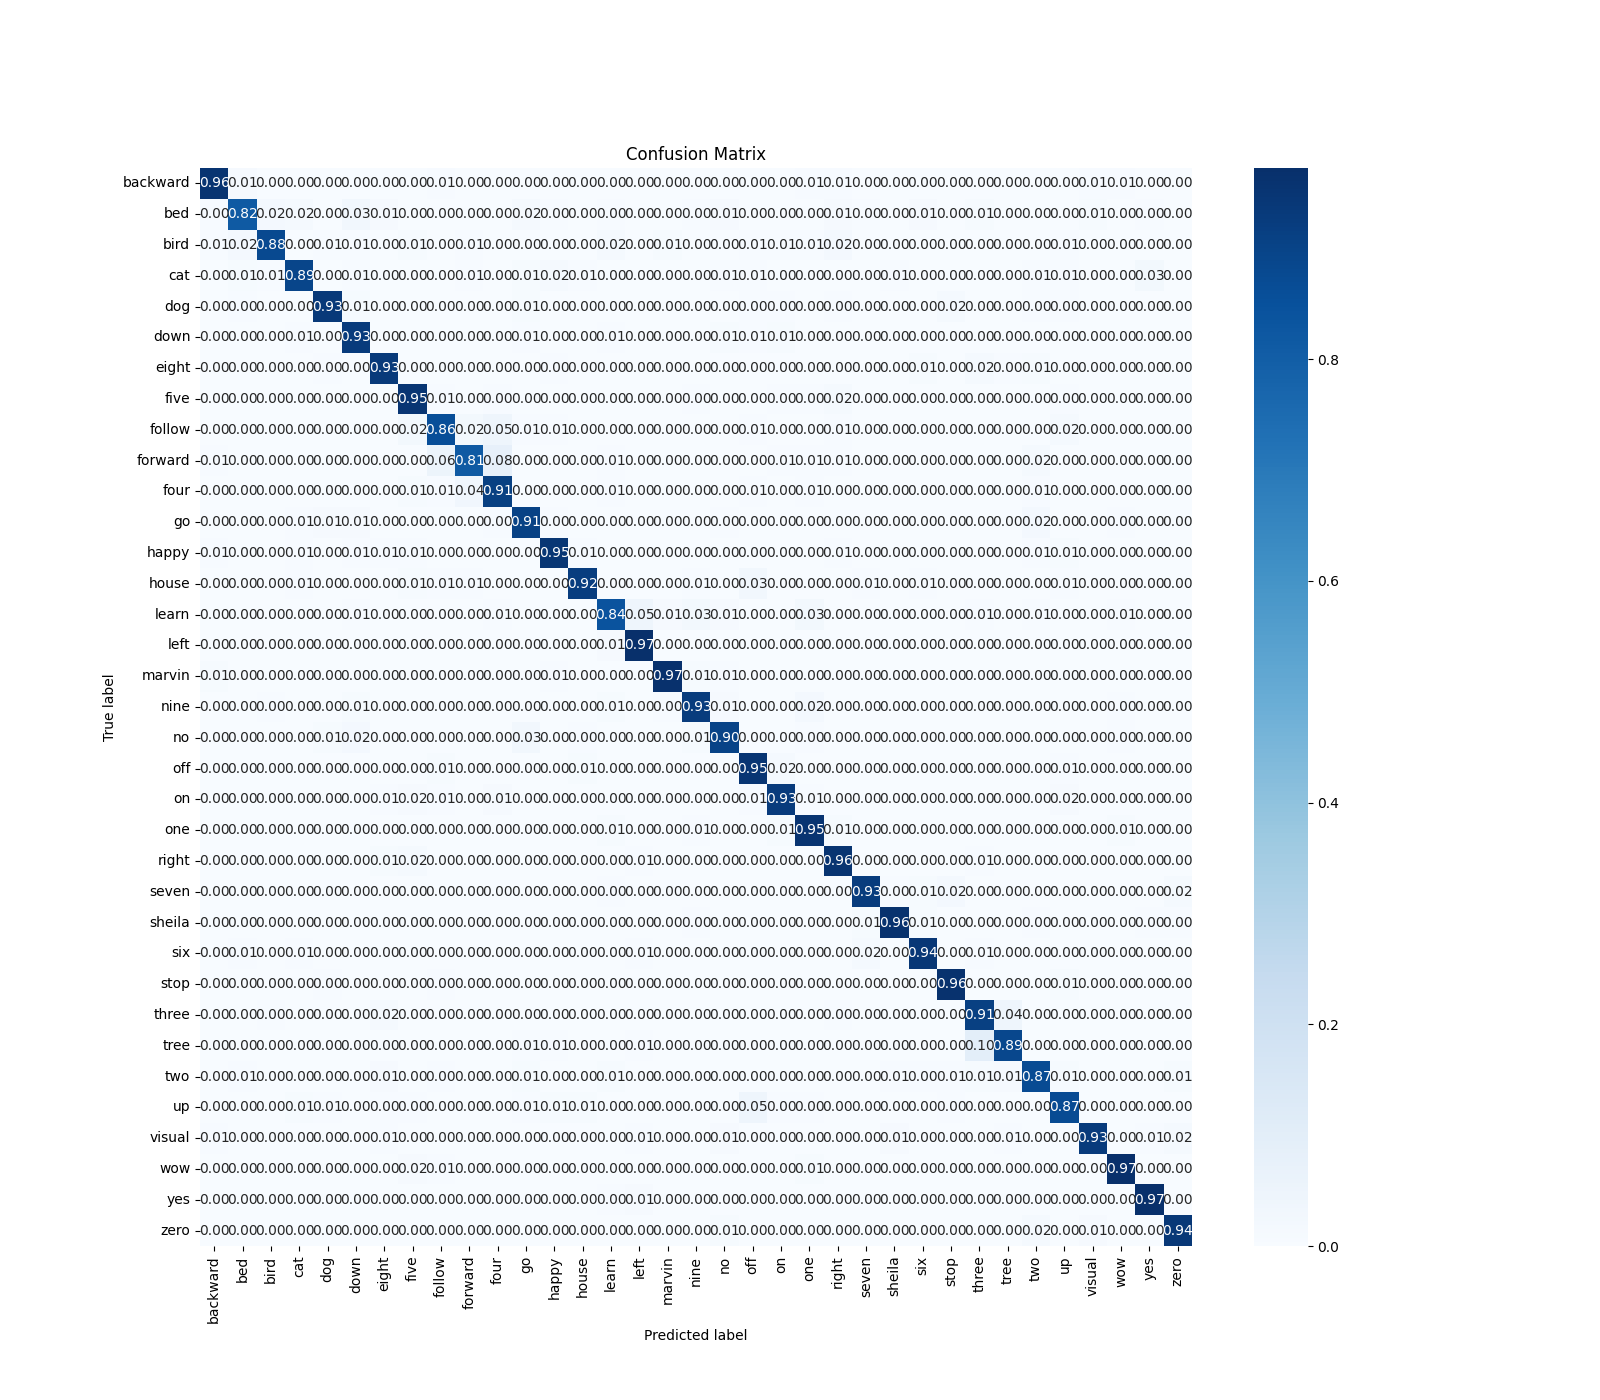
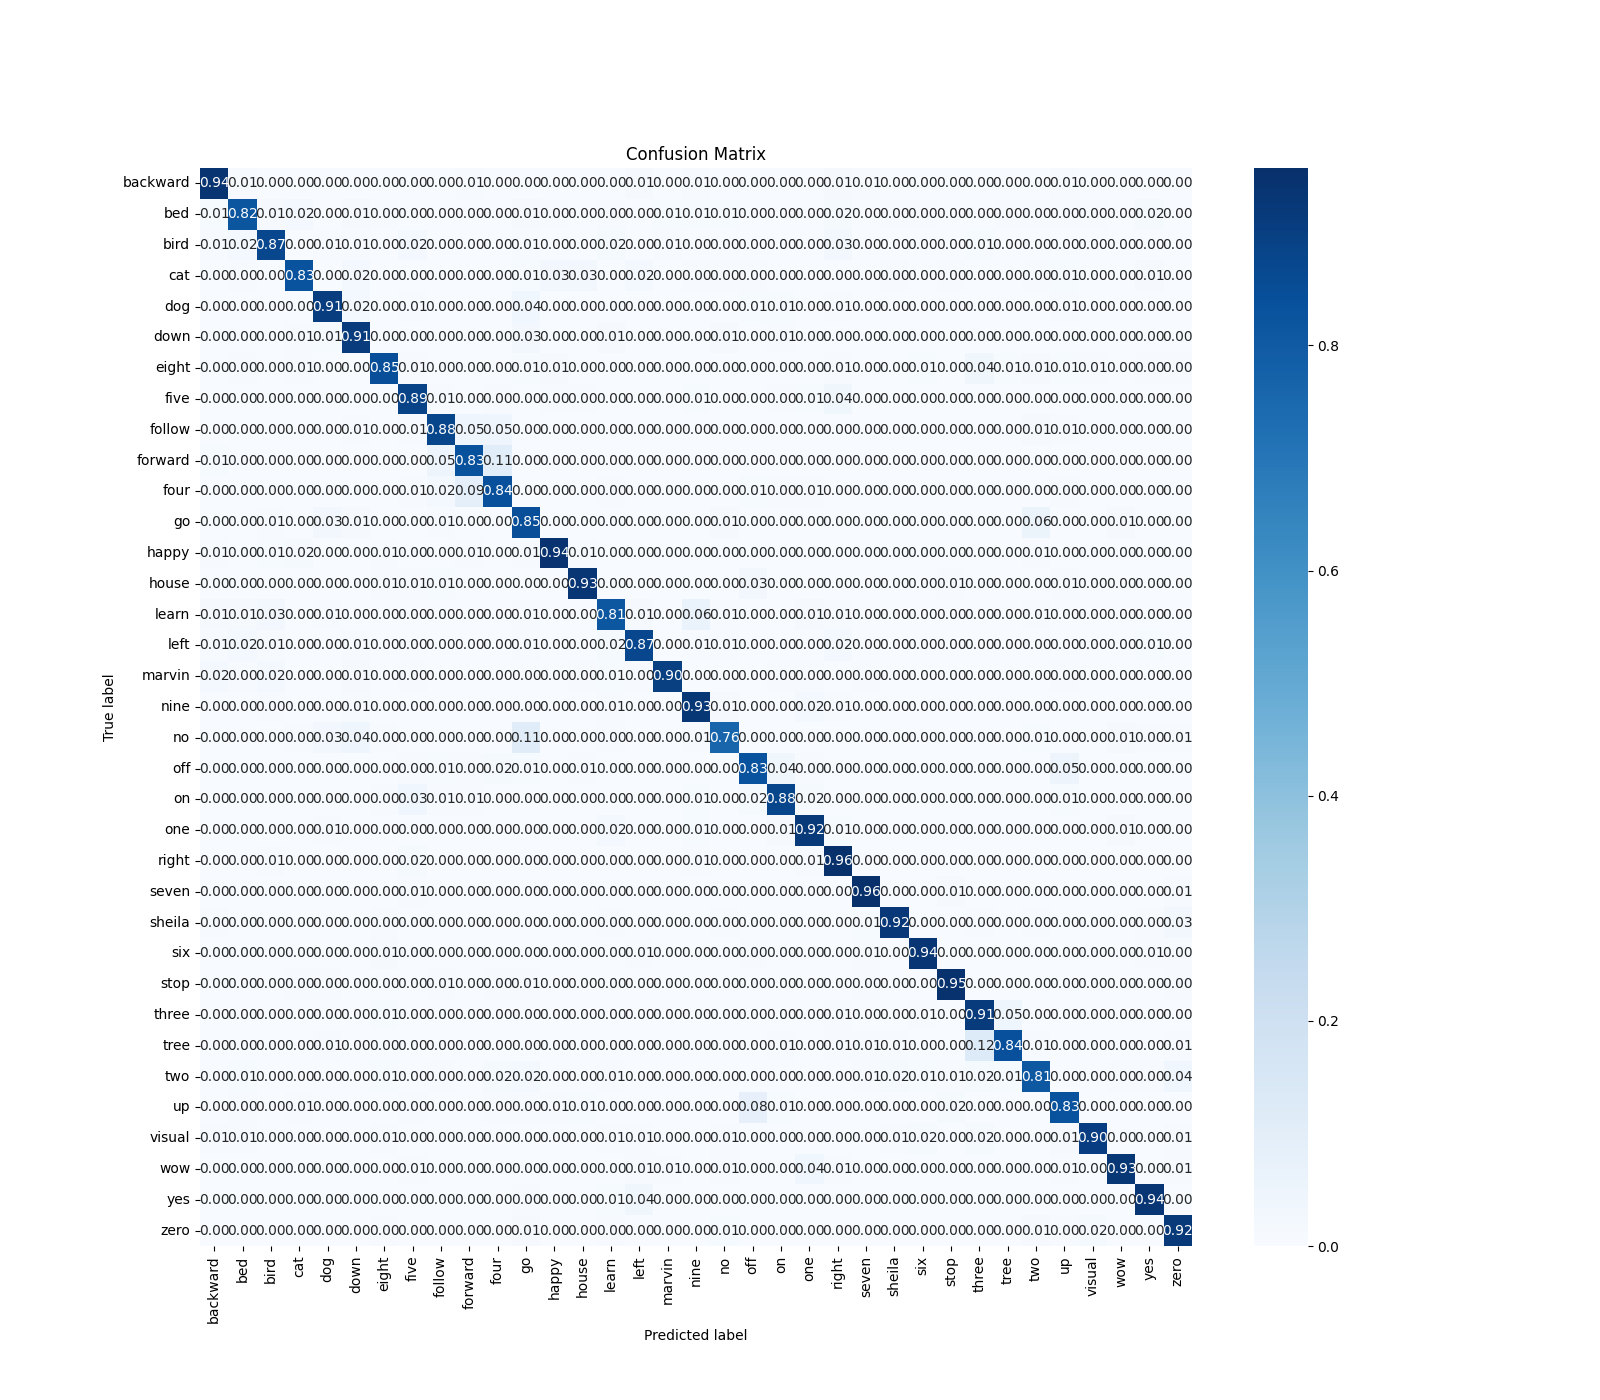
updated some models with context nodes

diff --git a/main.py b/main.py
@@ -57,14 +57,14 @@ def main():
     #      Accuracy  Precision  Recall  F1-score
 #Model 24    0.9194   0.919809  0.9194  0.919147
 
-    # TODO : remove 
+
     data_dir = utils_data.download_and_prepare_dataset()
 
-    for i in range(28,29):
+    for i in range(1):
         # For reproducibility & testing across different models
         tf.random.set_seed(32)
 
-        MODE_MODEL = 'CNN'
+        MODE_MODEL = 'GNN'
 
 
 
@@ -73,10 +73,10 @@ def main():
         FRAME_LENGTH = int(SAMPLE_RATE * 0.025)  # 25 ms 
         FRAME_STEP = int(SAMPLE_RATE * 0.010)  # 10 ms 
 
-        N_DILATION_LAYERS = 0
+        N_DILATION_LAYERS = 5
 
-        REDUCED_NODE_REP_BOOL = True
-        REDUCED_NODE_REP_K = 4
+        REDUCED_NODE_REP_BOOL = False
+        REDUCED_NODE_REP_K = 0
 
         # TODO : replace with old (look at github)
         # Load data
@@ -121,7 +121,7 @@ def main():
         
 
         if MODE_MODEL == 'CNN':
-            model, history = base_cnn.train_model(train_ds_og, val_ds_og, test_ds_og, input_shape=(98, 39, 1), num_classes=35, epochs=1, model_type='res8_narrow')
+            model, history = base_cnn.train_model(train_ds_og, val_ds_og, test_ds_og, input_shape=(98, 39, 1), num_classes=35, epochs=30, model_type='res8_narrow')
 
            # utils_metrics.plot_history(history, columns=['loss', 'sparse_categorical_accuracy'], idx = i)
 
@@ -168,7 +168,7 @@ def main():
 
 
 
-            _, adjacency_matrix, _ = utils_graph.create_adjacency_matrix(mfcc = example_mfcc, num_frames=N_FRAMES, label = example_label, mode='similarity', threshold= 0, cosine_window_thresh = 0.3,window_size_cosine= 3, window_size=5)
+       #     _, adjacency_matrix, _ = utils_graph.create_adjacency_matrix(mfcc = example_mfcc, num_frames=N_FRAMES, label = example_label, mode='similarity', threshold= 0, cosine_window_thresh = 0.3,window_size_cosine= 3, window_size=5)
 
 
         # utils_data.listen_audio(example_wav, sample_rate=SAMPLE_RATE)
@@ -190,26 +190,26 @@ def main():
 
             
 
-            train_ds = train_ds_og.map(lambda mfcc, wav, label: utils_graph.create_adjacency_matrix(mfcc, N_FRAMES, label, mode='cosine window',window_size_cosine = 25, n_dilation_layers= N_DILATION_LAYERS, window_size=5, threshold = 0.3))
-            val_ds = val_ds_og.map(lambda mfcc, wav, label: utils_graph.create_adjacency_matrix(mfcc, N_FRAMES, label, mode='cosine window',window_size_cosine = 25, n_dilation_layers= N_DILATION_LAYERS, window_size=5, threshold = 0.3))
-            test_ds = test_ds_og.map(lambda mfcc, wav, label: utils_graph.create_adjacency_matrix(mfcc, N_FRAMES, label,mode='cosine window',window_size_cosine = 25, n_dilation_layers= N_DILATION_LAYERS, window_size=5, threshold = 0.3))
+            train_ds = train_ds_og.map(lambda mfcc, wav, label: utils_graph.create_adjacency_matrix(mfcc, N_FRAMES, label, mode='cosine window',window_size_cosine = 10, n_dilation_layers= N_DILATION_LAYERS, window_size=5, threshold = 0.3))
+            val_ds = val_ds_og.map(lambda mfcc, wav, label: utils_graph.create_adjacency_matrix(mfcc, N_FRAMES, label, mode='cosine window',window_size_cosine = 10, n_dilation_layers= N_DILATION_LAYERS, window_size=5, threshold = 0.3))
+            test_ds = test_ds_og.map(lambda mfcc, wav, label: utils_graph.create_adjacency_matrix(mfcc, N_FRAMES, label,mode='cosine window',window_size_cosine = 10, n_dilation_layers= N_DILATION_LAYERS, window_size=5, threshold = 0.3))
             # Check the shape of the dataset
-            for mfcc, adjacency_matrices, label in train_ds.take(1):
-                print(f"MFCC shape: {mfcc.shape}")
+         #   for mfcc, adjacency_matrices, label in train_ds.take(1):
+         #       print(f"MFCC shape: {mfcc.shape}")
 
 
-                print(f"Label shape: {label.shape}")
-                example_mfcc = mfcc
-                example_adjacency_matrix = adjacency_matrices[0]
+          #      print(f"Label shape: {label.shape}")
+          #      example_mfcc = mfcc
+          #      example_adjacency_matrix = adjacency_matrices[0]
 
             
             # Adjacency test
             # utils_graph.visualize_adjacency_matrix(example_adjacency_matrix, title="Adjacency Matrix")
 
-            spectrogram, _ = utils_data.get_spectrogram(wav, sample_rate = 16000) 
-            gam_filters = utils_data.create_gammatone_filterbank(fft_size=FRAME_LENGTH)
+       #     spectrogram, _ = utils_data.get_spectrogram(wav, sample_rate = 16000) 
+       #     gam_filters = utils_data.create_gammatone_filterbank(fft_size=FRAME_LENGTH)
         #  utils_data.visualize_filterbank(gam_filters, spectrogram = spectrogram, gammatone = True)
-            _ , mel_filters = utils_data.apply_mel_filterbanks(spectrogram)
+      #      _ , mel_filters = utils_data.apply_mel_filterbanks(spectrogram)
         #  utils_data.visualize_filterbank(mel_filters, spectrogram = spectrogram)
 
         #  utils_data.visualize_mfccs(example_mfcc, gammatone = True, label = 1)
@@ -220,12 +220,12 @@ def main():
 
 
             # Graph test
-            graph_example = base_gnn.mfccs_to_graph_tensors(example_mfcc, example_adjacency_matrix)
+         #   graph_example = base_gnn.mfccs_to_graph_tensors(example_mfcc, example_adjacency_matrix)
             # print(f"Graph example shape: {graph_example.shape}")
-            print(f"Graph example: {graph_example}")
-            print("Edges:", graph_example.edge_sets["connections"].adjacency)
-            networkx_graph = utils_graph.convert_tensor_to_networkx(graph_example)
-            pos = utils_graph.node_layout(networkx_graph)
+         #   print(f"Graph example: {graph_example}")
+         #   print("Edges:", graph_example.edge_sets["connections"].adjacency)
+         #   networkx_graph = utils_graph.convert_tensor_to_networkx(graph_example)
+         #   pos = utils_graph.node_layout(networkx_graph)
             # utils_graph.visualize_graph_with_heatmap(networkx_graph, pos = pos, title="Graph Example")
 
 
@@ -283,13 +283,15 @@ def main():
             
 
 
-            if i == 28:        
+            if i == 0:        
                 # Note that we actually have 35 classes !!! not like written in project B1
-                base_model = base_gnn.base_gnn_model_using_gcn(graph_tensor_specification = graphs_spec,
-                                                            n_message_passing_layers = 6,
-                                                            use_residual_next_state = False,
-                                                            initial_nodes_mfccs_layer_dims= 64,
-                                                            dilation = False,
+                base_model = base_gnn.base_gnn_model_using_gcn_and_context_node(graph_tensor_specification = graphs_spec,
+                                                            n_message_passing_layers = 5,
+                                                            use_residual_next_state = True,
+                                                            initial_nodes_mfccs_layer_dims= 32,
+                                                            message_dim= 32,
+                                                            next_state_dim= 32,
+                                                            dilation = True,
                                                             n_dilation_layers= N_DILATION_LAYERS,
                                                             l2_reg_factor= 1e-4,
                                                             )

diff --git a/models/base_gnn.py b/models/base_gnn.py
@@ -1444,6 +1444,7 @@ def base_gnn_model_using_gcn(
         use_residual_next_state = False
 
 
+
         ):
     
     """
@@ -1595,6 +1596,203 @@ def base_gnn_model_using_gcn(
 
 
     return model 
+
+
+
+
+
+def base_gnn_model_using_gcn_and_context_node(
+        graph_tensor_specification,
+        initial_nodes_mfccs_layer_dims = 64,
+        initial_edges_weights_layer_dims = [16],
+        message_dim = 128,
+        next_state_dim = 128,
+        num_classes = 35,
+        l2_reg_factor = 6e-6,
+        dropout_rate = 0.2,
+        use_layer_normalization = True,
+        mode = 'layer',
+        n_message_passing_layers = 4,
+        dilation = False,
+        n_dilation_layers = 2,
+        use_residual_next_state = False
+
+
+        ):
+    
+    """
+    Works great like this on noisy training set!
+
+   
+    In this approach, instead of using SimpleConv() for the message passing, we use GCN layers!
+    Note that this only works with homogeneous graphs ; therefore, we use our cosine window
+    approach as it is homogeneous and use weighted edges 
+
+    """
+
+
+    # Input is the graph structure 
+    input_graph = tf.keras.layers.Input(type_spec = graph_tensor_specification)
+
+    # Convert to scalar GraphTensor
+    graph = tfgnn.keras.layers.MapFeatures()(input_graph)
+
+    is_batched = (graph.spec.rank == 1)
+
+    if is_batched:
+        batch_size = graph.shape[0]
+        graph = graph.merge_batch_to_components()
+
+
+
+    def set_initial_node_state(node_set,node_set_name):
+        """
+        Initialize hidden states for nodes in the graph.
+        
+        Args:
+            node_set: A dictionary containing node features
+            node_set_name: The name of the node set (e.g., "frames")
+            
+        Returns:
+            A transformation function applied to the node features
+        """
+        if node_set_name == "frames":
+            # Apply a dense layer to transform MFCC features into hidden states
+            # Instead of just one dense layer , we can also directly use dropout etc. here (if we wish so) 
+            return tf.keras.layers.Dense(initial_nodes_mfccs_layer_dims, activation="relu")(
+                node_set["features"]  # This would be your mfcc_static features
+            )
+        else:
+            # Handle any other node types
+            raise ValueError(f"Unknown node set: {node_set_name}")
+            
+    def set_initial_edge_state(edge_set, edge_set_name):
+        """
+        Initialize hidden states for edges in the graph
+        
+        
+        """
+        # TODO : can be implemented if we want 
+        pass 
+
+
+    def set_initial_context_state(context):
+        """
+        Initialize hidden state for the context of the graph (i.e. the whole graph)
+        
+        """
+
+        # Option 1 : initialize the context node with a zero vector
+        return tfgnn.keras.layers.MakeEmptyFeature()(context)
+
+    
+        
+        # Option 2: Initialize with a pooled representation of all nodes (in their initial state)
+     #   pooled = tfgnn.keras.layers.Pool(
+     #       tfgnn.CONTEXT, "mean", node_set_name="frames")(graph)
+     #   return tf.keras.layers.Dense(next_state_dim, activation="relu")(pooled)
+        
+
+    graph = tfgnn.keras.layers.MapFeatures(
+        node_sets_fn = set_initial_node_state,
+        context_fn = set_initial_context_state, name = 'init_states')(graph) # added initial context state 
+    
+    # Let us now build some basic building blocks for our model
+    def dense(units, use_layer_normalization = False, mode = 'layer'):
+        """ Dense layer with regularization (L2 & Dropout) & normalization"""
+        regularizer = tf.keras.regularizers.l2(l2_reg_factor)
+        result = tf.keras.Sequential([
+            tf.keras.layers.Dense(
+                units,
+                activation = "relu",
+                use_bias = True,
+                kernel_regularizer = regularizer,
+                bias_regularizer = regularizer,),
+            tf.keras.layers.Dropout(dropout_rate)])
+        if use_layer_normalization:
+            if mode == 'layer':
+                result.add(tf.keras.layers.LayerNormalization())
+            else:
+                result.add(tf.keras.layers.BatchNormalization())
+
+        return result 
+    
+
+    
+    def gcn_convolution(message_dim, receiver_tag):
+        # Here we now use a GCN layer 
+        # TODO : don't understand how to add dropout ; I think
+        # we would need to add it into the GCNConv class itself, since
+        # we are not calling a keras layer here, but the whole class 
+        # (i.e. we cannot use the sequential function like normally)
+        regularizer = tf.keras.regularizers.l2(l2_reg_factor)
+
+
+        return  gcn_conv.GCNConv(
+            units = message_dim,
+            receiver_tag= receiver_tag,
+            activation = "relu",
+            use_bias = True,
+            kernel_regularizer = regularizer,
+            add_self_loops = False,
+            edge_weight_feature_name= 'weights',
+            degree_normalization= 'in'
+        )
+
+    
+
+
+
+    def next_state(next_state_dim, use_layer_normalization):
+        if not use_residual_next_state:
+            return tfgnn.keras.layers.NextStateFromConcat(dense(next_state_dim, use_layer_normalization=use_layer_normalization))
+        else:
+            return tfgnn.keras.layers.ResidualNextState(dense(next_state_dim, use_layer_normalization=use_layer_normalization))
+    
+
+    def next_state_concat(next_state_dim, use_layer_normalization):
+        return tfgnn.keras.layers.NextStateFromConcat(dense(next_state_dim, use_layer_normalization=use_layer_normalization))
+
+
+    if not dilation:
+        n_dilation_layers = 1
+    
+    # after the first message passing layer, nodes are (3136,128) and context node is (32,128)
+    for i in range(n_message_passing_layers):
+        dil_layer_num = i % n_dilation_layers # circular usage of dilated adjacency matrices throughout message passing layers
+        graph = tfgnn.keras.layers.GraphUpdate(
+            node_sets = {
+                "frames" : tfgnn.keras.layers.NodeSetUpdate(
+                    {f"connections_{dil_layer_num}" : gcn_convolution(message_dim, tfgnn.SOURCE)},
+                next_state(next_state_dim, use_layer_normalization)
+                )
+            },
+            # Here we just do an easy implementation : in each message passing layer, take all the current node features
+            # and pool them using the mean
+            context = tfgnn.keras.layers.ContextUpdate(
+                {
+                    "frames" : tfgnn.keras.layers.Pool(tfgnn.CONTEXT, "mean", node_set_name = "frames")
+                },
+                next_state_concat(next_state_dim, use_layer_normalization)
+            
+        ))(graph)
+
+
+
+    # Get the current context state (has shape (batch_size, 128) , where 128 is the message_passing_dimension)
+    # This represents the master node, which is updated in each message passing layer !
+    context_state = graph.context.features['hidden_state']
+
+    logits = tf.keras.layers.Dense(num_classes)(context_state)
+
+
+    
+    model = tf.keras.Model(input_graph, logits)
+
+
+    return model 
+
+
 
 
 def base_gnn_model_using_gcn_with_residual_blocks(
